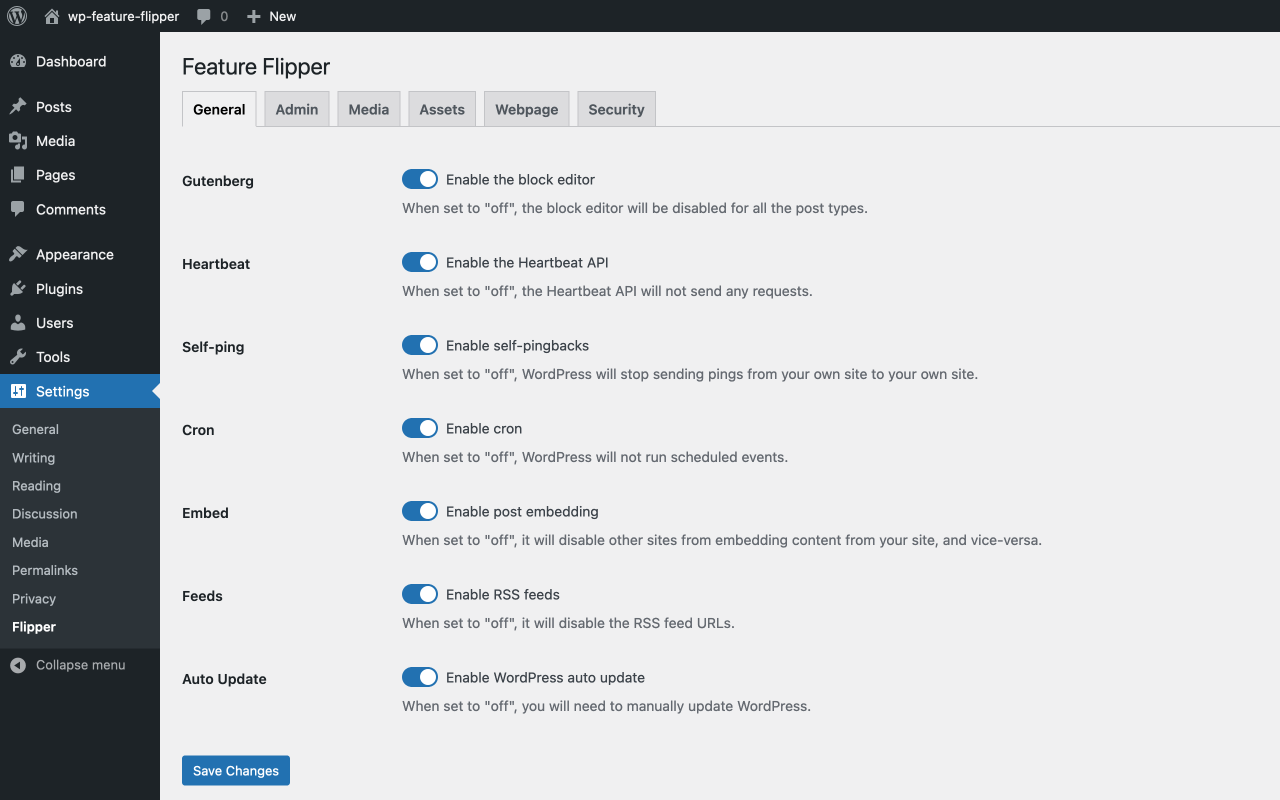
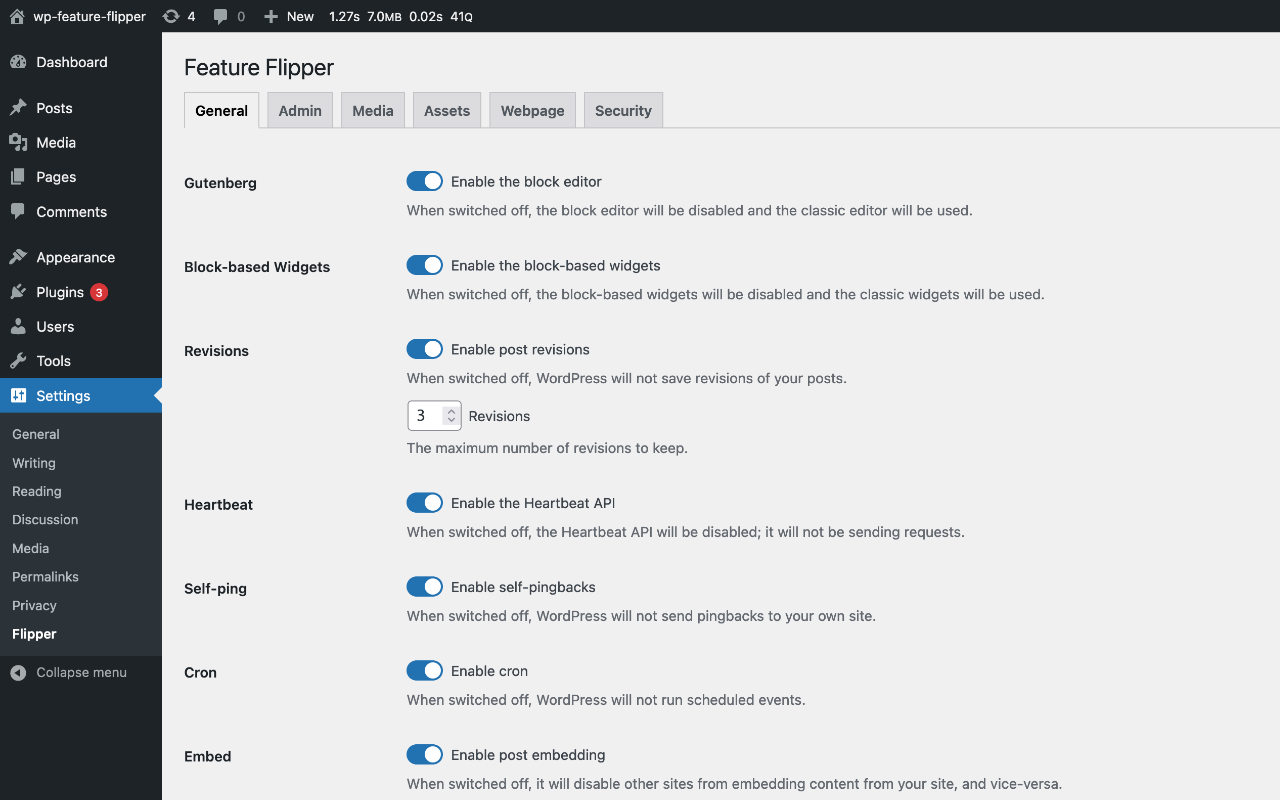
Add "Revisions" switcher and input (#23)

diff --git a/src/setting-page/components/inputs/RevisionsInputs.jsx b/src/setting-page/components/inputs/RevisionsInputs.jsx
@@ -5,24 +5,19 @@ import { useFormContext, useSettingsContext } from '../form';
 import styles from './SwitchInput.module.scss';
 import { useState } from '@wordpress/element';
 
-export const JPEGCompressionInputs = () => {
+export const RevisionsInputs = () => {
 	const { getOption } = useSettingsContext();
 	const { setFieldsetValues } = useFormContext();
-	const [ isEnabled, setEnabled ] = useState(
-		getOption( 'jpeg_compression' )
-	);
+	const [ isEnabled, setEnabled ] = useState( getOption( 'revisions' ) );
 
 	return (
 		<SwitchInput
-			name="jpeg_compression"
-			id="jpeg-compression"
-			title={ __( 'JPEG Compression', 'syntatis-feature-flipper' ) }
-			label={ __(
-				'Enable JPEG image compression',
-				'syntatis-feature-flipper'
-			) }
+			name="revisions"
+			id="revisions"
+			title={ __( 'Revisions', 'syntatis-feature-flipper' ) }
+			label={ __( 'Enable post revisions', 'syntatis-feature-flipper' ) }
 			description={ __(
-				'When switched off, WordPress will upload the original JPEG image in its full quality, without any compression.',
+				'When switched off, WordPress will not save revisions of your posts.',
 				'syntatis-feature-flipper'
 			) }
 			onChange={ setEnabled }
@@ -30,32 +25,32 @@ export const JPEGCompressionInputs = () => {
 			{ isEnabled && (
 				<div className={ styles.inputDetails }>
 					<TextField
-						min={ 10 }
+						min={ 1 }
 						max={ 100 }
+						placeholder="-"
+						defaultValue={ getOption( 'revisions_max' ) }
 						type="number"
-						name="jpeg_compression_quality"
-						defaultValue={ getOption( 'jpeg_compression_quality' ) }
+						name="revisions_max"
 						onChange={ ( value ) => {
-							setFieldsetValues(
-								'jpeg_compression_quality',
-								value
-							);
+							setFieldsetValues( 'revisions_max', value );
 						} }
 						className="code"
-						prefix={
+						suffix={
 							<span aria-hidden>
-								{ __( 'Quality', 'syntatis-feature-flipper' ) }
+								{ __(
+									'Revisions',
+									'syntatis-feature-flipper'
+								) }
 							</span>
 						}
 						aria-label={ __(
-							'Quality',
+							'Maximum',
 							'syntatis-feature-flipper'
 						) }
 						description={ __(
-							'The quality of the compressed JPEG image. 100 is the highest quality.',
+							'The maximum number of revisions to keep.',
 							'syntatis-feature-flipper'
 						) }
-						suffix="%"
 					/>
 				</div>
 			) }

diff --git a/src/setting-page/components/inputs/DashboardWidgetsInputs.jsx b/src/setting-page/components/inputs/DashboardWidgetsInputs.jsx
@@ -2,7 +2,7 @@ import { __ } from '@wordpress/i18n';
 import { SwitchInput } from './SwitchInput';
 import { Checkbox, CheckboxGroup } from '@syntatis/kubrick';
 import { useFormContext, useSettingsContext } from '../form';
-import styles from './DashboardWidgetsInputs.module.scss';
+import styles from './SwitchInput.module.scss';
 import { useId, useState } from '@wordpress/element';
 
 export const DashboardWidgetsInputs = () => {
@@ -31,7 +31,7 @@ export const DashboardWidgetsInputs = () => {
 			onChange={ setEnabled }
 		>
 			{ isEnabled && (
-				<details className={ styles.widgetsDetails }>
+				<details className={ styles.inputDetails }>
 					<summary id={ labelId }>
 						{ __( 'Widgets', 'syntatis-feature-flipper' ) }
 					</summary>

diff --git a/src/setting-page/components/inputs/AdminBarInputs.jsx b/src/setting-page/components/inputs/AdminBarInputs.jsx
@@ -2,7 +2,7 @@ import { __ } from '@wordpress/i18n';
 import { SwitchInput } from './SwitchInput';
 import { Checkbox, CheckboxGroup } from '@syntatis/kubrick';
 import { useFormContext, useSettingsContext } from '../form';
-import styles from './AdminBarInputs.module.scss';
+import styles from './SwitchInput.module.scss';
 import { useId } from '@wordpress/element';
 
 export const AdminBarInputs = () => {
@@ -25,7 +25,7 @@ export const AdminBarInputs = () => {
 				'syntatis-feature-flipper'
 			) }
 		>
-			<details className={ styles.menuDetails }>
+			<details className={ styles.inputDetails }>
 				<summary id={ labelId }>
 					{ __( 'Menu', 'syntatis-feature-flipper' ) }
 				</summary>

diff --git a/src/setting-page/tabs/GeneralTab.jsx b/src/setting-page/tabs/GeneralTab.jsx
@@ -1,6 +1,6 @@
 import { __ } from '@wordpress/i18n';
 import { Fieldset, Form, useSettingsContext } from '../components/form';
-import { SwitchInput } from '../components/inputs';
+import { RevisionsInputs, SwitchInput } from '../components/inputs';
 
 export const GeneralTab = () => {
 	const { inlineData } = useSettingsContext();
@@ -51,6 +51,7 @@ export const GeneralTab = () => {
 							  )
 					}
 				/>
+				<RevisionsInputs />
 				<SwitchInput
 					name="heartbeat"
 					id="heartbeat"

diff --git a/src/setting-page/components/inputs/index.js b/src/setting-page/components/inputs/index.js
@@ -1,4 +1,5 @@
 export { AdminBarInputs } from './AdminBarInputs';
 export { DashboardWidgetsInputs } from './DashboardWidgetsInputs';
 export { JPEGCompressionInputs } from './JPEGCompressionInputs';
+export { RevisionsInputs } from './RevisionsInputs';
 export { SwitchInput } from './SwitchInput';

diff --git a/src/setting-page/components/inputs/SwitchInput.module.scss b/src/setting-page/components/inputs/SwitchInput.module.scss
@@ -1,0 +1,3 @@
+.inputDetails {
+	margin-top: 0.75rem
+}

diff --git a/app/Switches/General.php b/app/Switches/General.php
@@ -15,7 +15,10 @@ use Syntatis\FeatureFlipper\Option;
 use function array_filter;
 use function define;
 use function defined;
+use function is_numeric;
 use function str_starts_with;
+
+use const PHP_INT_MAX;
 
 class General implements Hookable, Extendable
 {
@@ -54,12 +57,27 @@ class General implements Hookable, Extendable
 			}, 99);
 		}
 
-		// 4. Cron.
-		if ((bool) Option::get('cron') || defined('DISABLE_WP_CRON')) {
-			return;
+		if (! (bool) Option::get('cron') && defined('DISABLE_WP_CRON')) {
+			define('DISABLE_WP_CRON', true);
 		}
 
-		define('DISABLE_WP_CRON', true);
+		$maxRevisions = Option::get('revisions_max');
+
+		if (! (bool) Option::get('revisions')) {
+			if (! defined('WP_POST_REVISIONS')) {
+				define('WP_POST_REVISIONS', 0);
+			}
+
+			$maxRevisions = 0;
+		}
+
+		$hook->addFilter(
+			'wp_revisions_to_keep',
+			static fn ($num) => is_numeric($maxRevisions) ?
+				(int) $maxRevisions :
+				$num,
+			PHP_INT_MAX,
+		);
 	}
 
 	/**

diff --git a/inc/settings/all.php b/inc/settings/all.php
@@ -22,10 +22,15 @@ return [
 		/**
 		 * Since it's too early to determine whether the current theme supports the
 		 * block-based widgets, set the default to `null`, and patch it through
-		 * the filter `syntatis/feature_flipper/settings`.
+		 * the filter.
 		 *
-		 * @see \Syntatis\FeatureFlipper\Switches\General
+		 * @see syntatis/feature_flipper/settings The filter to patch the setting values.
+		 * @see \Syntatis\FeatureFlipper\Switches\General The class that patches the `block_based_widgets` value.
 		 */
+		->withDefault(null),
+	(new Setting('revisions', 'boolean'))
+		->withDefault(defined('WP_POST_REVISIONS') ? ! (bool) WP_POST_REVISIONS : true),
+	(new Setting('revisions_max', 'integer'))
 		->withDefault(null),
 	(new Setting('heartbeat', 'boolean'))
 		->withDefault(true),

diff --git a/app/Features/DashboardWidgets.php b/app/Features/DashboardWidgets.php
@@ -60,7 +60,6 @@ class DashboardWidgets implements Hookable
 
 	private static function setupEach(): void
 	{
-		// $widgets = self::getRegisteredWidgets();
 		$dashboardWidgets = $GLOBALS['wp_meta_boxes']['dashboard'] ?? null;
 		$values = Option::get('dashboard_widgets_enabled') ?? self::getAllDashboardId();
 		$values = is_array($values) ? $values : [];
